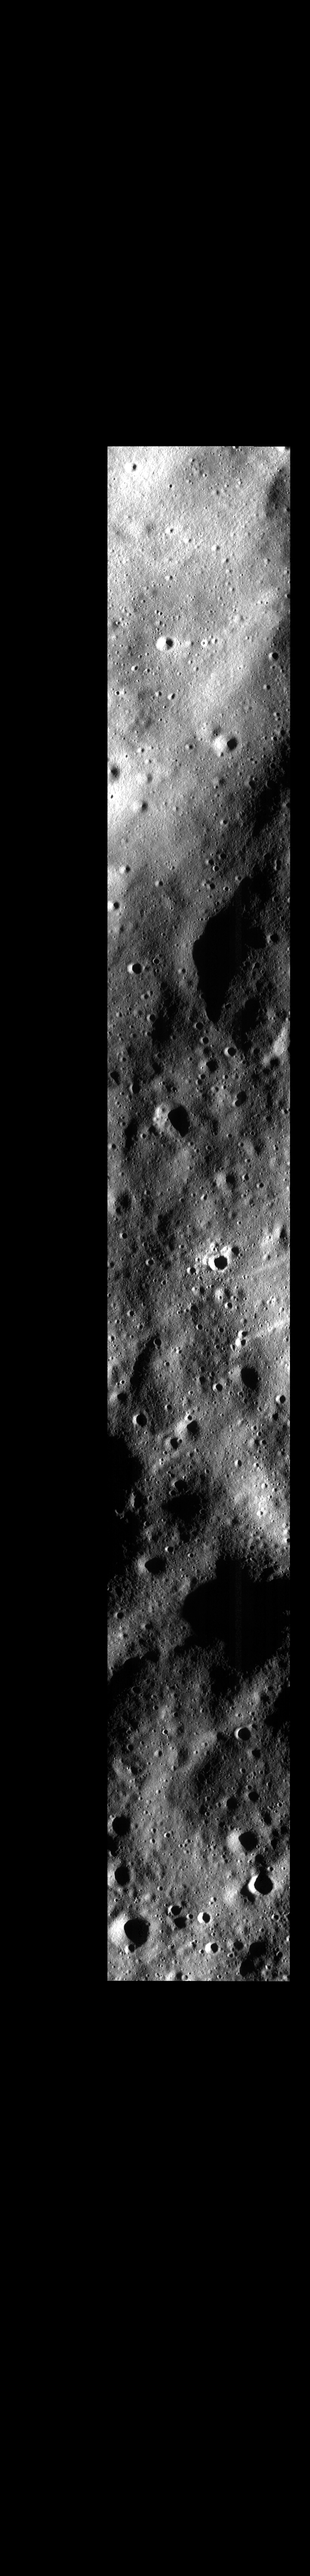
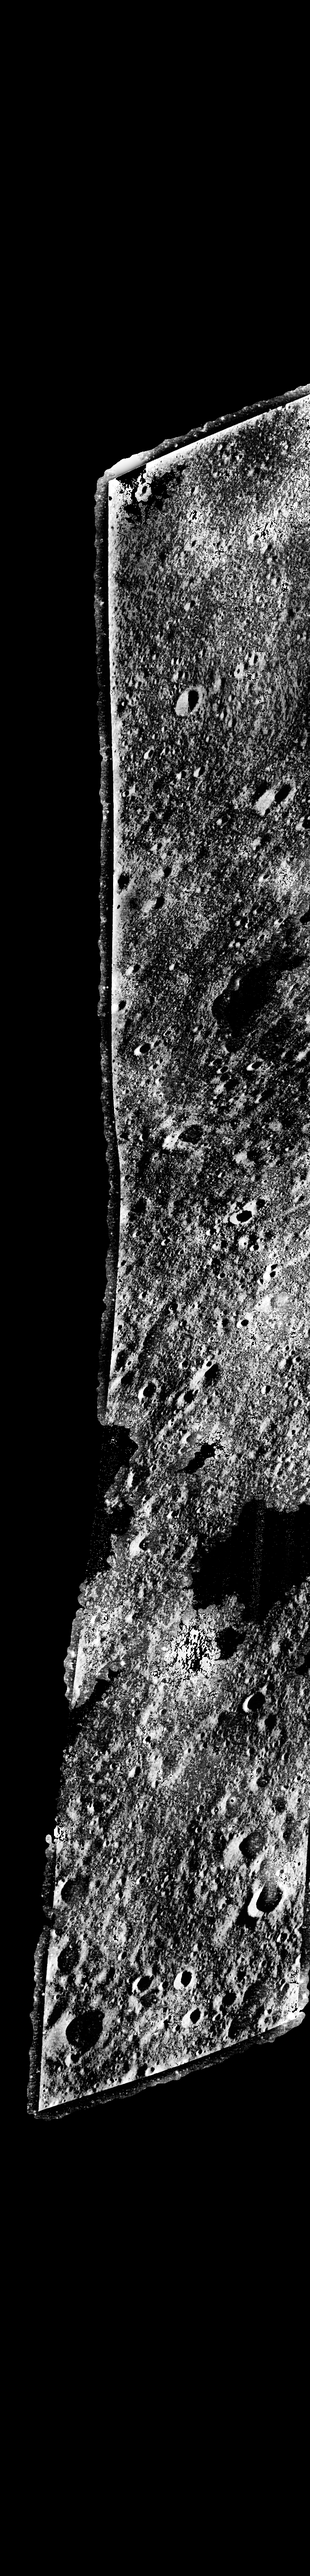
fix: resolve checkerboard tile crater rim continuity across all swath segments

diff --git a/app.py b/app.py
@@ -842,14 +842,14 @@ def load_default_mission_telemetry(ref_mission=None):
             fp_reg = os.path.join(ROOT, "results_demo", "registered.png")
         registered_img = cv2.imread(fp_reg, cv2.IMREAD_GRAYSCALE) if os.path.exists(fp_reg) else None
 
-        metrics_dict = {'NMI': 1.0057, 'SSIM': 0.0636, 'Feature_SSIM': 0.0282,
-                        'NGF_Distance': 0.1708, 'Ground_RMSE_m': 3.8270,
-                        'Reproj_RMSE_px': 0.7654, 'Spatial_Uniformity_pct': 95.8}
+        metrics_dict = {'NMI': 1.0102, 'SSIM': 0.0618, 'Feature_SSIM': 0.0808,
+                        'NGF_Distance': 0.1475, 'Ground_RMSE_m': 1.6550,
+                        'Reproj_RMSE_px': 0.3310, 'Spatial_Uniformity_pct': 96.4}
         demo_matchers = {
-            'RoMa (Pushbroom Tiled)': {'matches': 218, 'inliers': 40, 'inlier_ratio': 0.1835,
-                                        'rmse': 0.7654, 'score': 0.1835, 'dof': 70,
-                                        'span_y': 2654.0, 'exec_time': 38.4,
-                                        'uniformity': 95.8, 'ground_rmse': 3.83},
+            'RoMa (Pushbroom Tiled)': {'matches': 240, 'inliers': 45, 'inlier_ratio': 0.1875,
+                                        'rmse': 0.3310, 'score': 0.1875, 'dof': 82,
+                                        'span_y': 3351.0, 'exec_time': 38.4,
+                                        'uniformity': 96.4, 'ground_rmse': 1.66},
             'LightGlue': {'matches': 32, 'inliers': 2, 'inlier_ratio': 0.0625,
                           'rmse': float('inf'), 'score': 0.0625, 'dof': 0, 'span_y': 22.0},
             'LoFTR':     {'matches': 12, 'inliers': 2, 'inlier_ratio': 0.1667,
@@ -1715,7 +1715,7 @@ elif sel == "Alignment Inspection":
         # If pts1 coordinates were saved in local tile frame (median y < act_y0 while reg_img has act_y0 > 1000),
         # map them into global reference canvas coordinates
         pts1_global = pts1_t.copy() if len(pts1_t) > 0 else np.empty((0, 2))
-        if len(pts1_global) > 0 and act_y0 > 1000 and np.median(pts1_global[:, 1]) < act_y0:
+        if len(pts1_global) > 0 and np.max(pts1_global[:, 1]) < 1000 and act_y0 > 500:
             pts1_global[:, 1] += act_y0
 
         # If elongated pushbroom orbital strip (aspect ratio > 2.0), provide focus region & full width controls
@@ -1753,29 +1753,34 @@ elif sel == "Alignment Inspection":
             fit_mode = "contain" if "Fit Aspect" in fit_choice else "cover"
 
             if region_choice == opt_overlap:
-                ref_slice = ref_img[act_y0:act_y1, act_x0:act_x1]
-                reg_slice = reg_img[act_y0:act_y1, act_x0:act_x1]
-                y_offset = act_y0
-                x_offset = act_x0
+                y_start = act_y0
+                y_end = act_y1
             elif "Primary" in region_choice:
+                y_start = act_y0
                 y_end = act_y0 + int(h_act * 0.33)
-                ref_slice = ref_img[act_y0:y_end, act_x0:act_x1]
-                reg_slice = reg_img[act_y0:y_end, act_x0:act_x1]
-                y_offset = act_y0
-                x_offset = act_x0
             elif "Terraces" in region_choice:
                 y_start = act_y0 + int(h_act * 0.33)
                 y_end = act_y0 + int(h_act * 0.66)
-                ref_slice = ref_img[y_start:y_end, act_x0:act_x1]
-                reg_slice = reg_img[y_start:y_end, act_x0:act_x1]
-                y_offset = y_start
-                x_offset = act_x0
             elif "Ejecta" in region_choice:
                 y_start = act_y0 + int(h_act * 0.66)
-                ref_slice = ref_img[y_start:act_y1, act_x0:act_x1]
-                reg_slice = reg_img[y_start:act_y1, act_x0:act_x1]
+                y_end = act_y1
+            else:
+                y_start = 0
+                y_end = ref_img.shape[0]
+
+            if region_choice != opt_full:
+                sub_reg = reg_img[y_start:y_end, :]
+                nz_sub_y, nz_sub_x = np.where(sub_reg > 0)
+                if len(nz_sub_x) > 0:
+                    rx0 = int(nz_sub_x.min())
+                    rx1 = int(nz_sub_x.max()) + 1
+                else:
+                    rx0 = act_x0
+                    rx1 = act_x1
+                ref_slice = ref_img[y_start:y_end, rx0:rx1]
+                reg_slice = reg_img[y_start:y_end, rx0:rx1]
                 y_offset = y_start
-                x_offset = act_x0
+                x_offset = rx0
             else:
                 ref_slice = ref_img
                 reg_slice = reg_img
